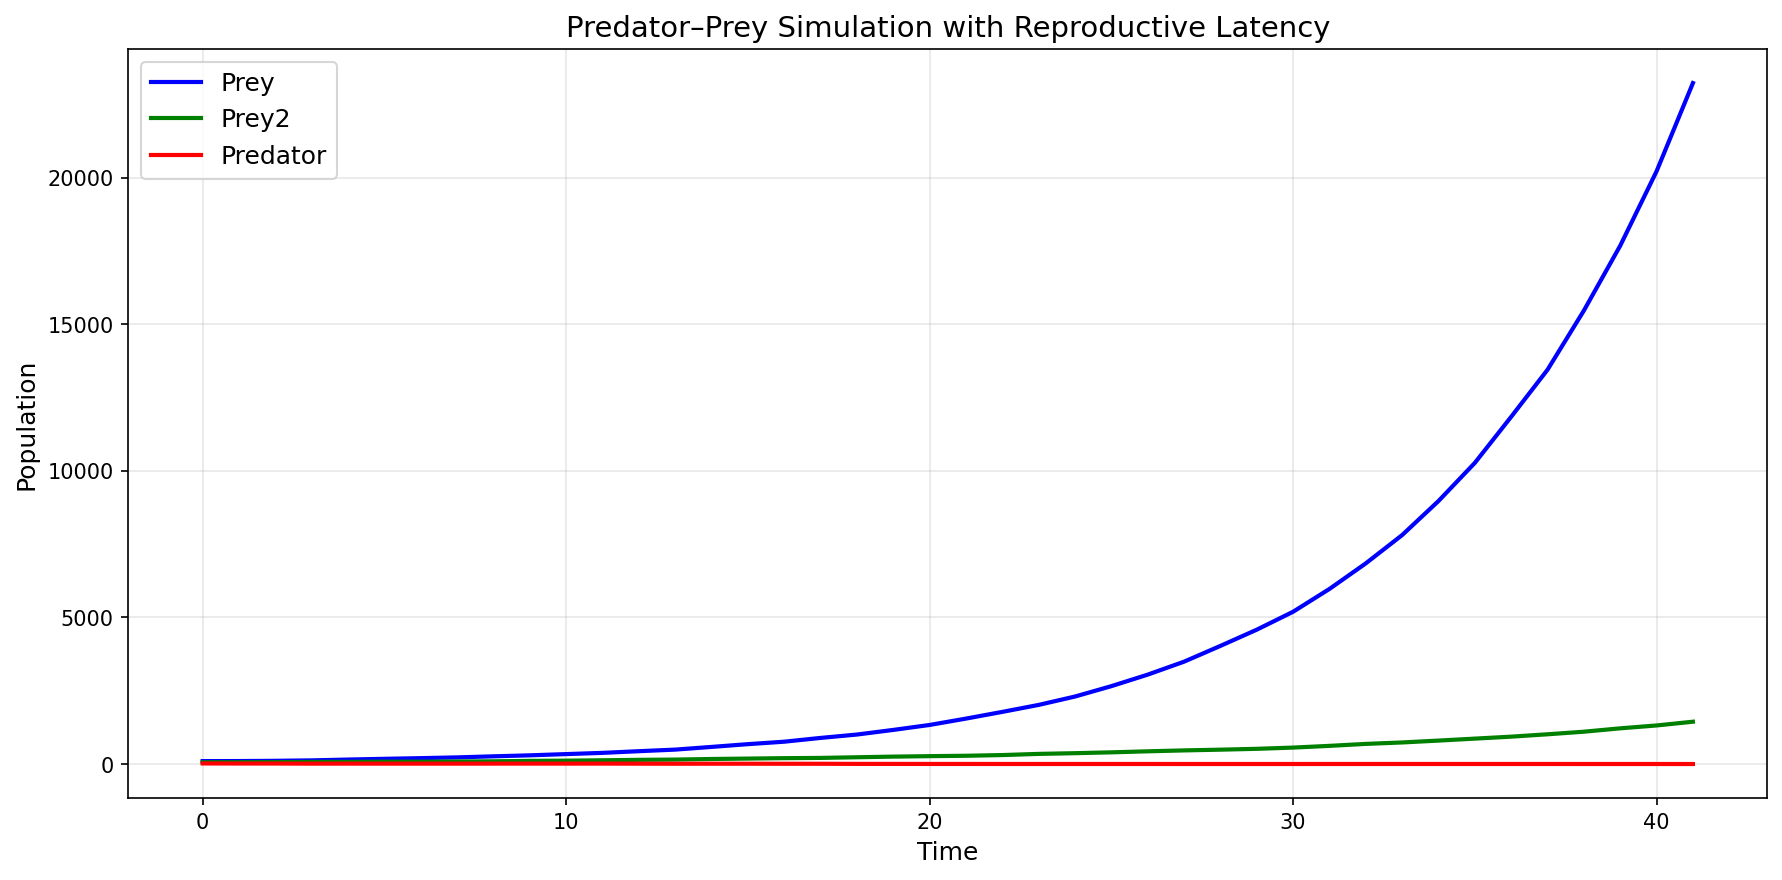
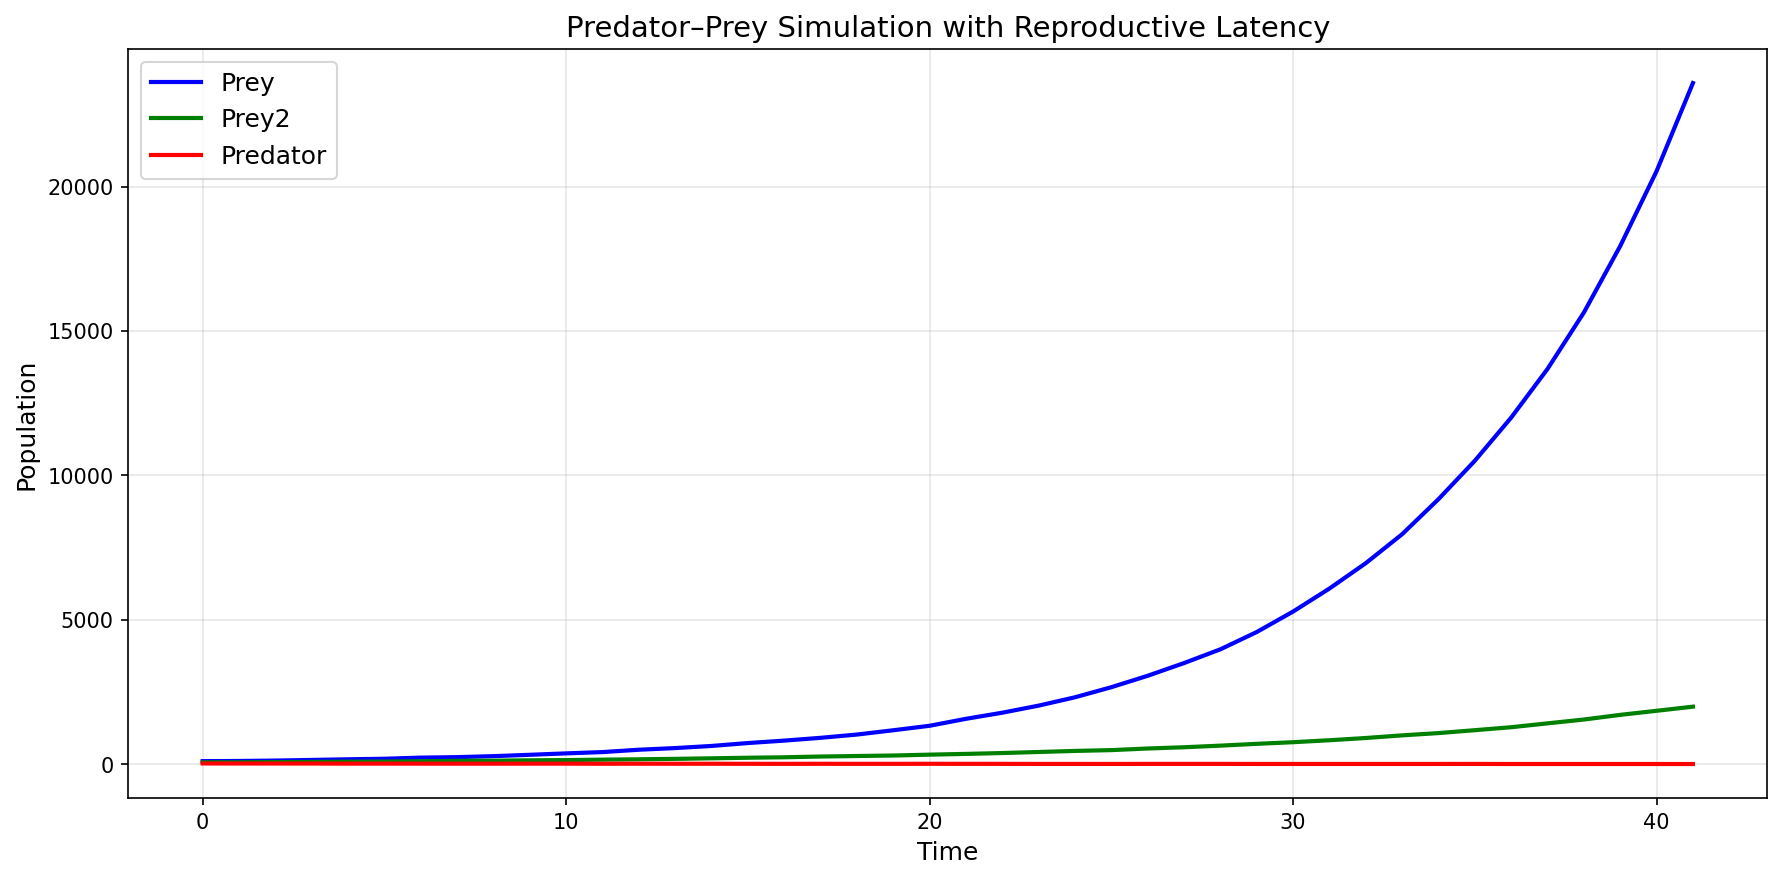
Stochastic graph i think

diff --git a/main.py b/main.py
@@ -4,6 +4,7 @@ import matplotlib
 matplotlib.use('Agg')  # Use non-interactive backend for environments without display
 import matplotlib.pyplot as plt
 import os
+import numpy as np
 
 # Create plots directory if it doesn't exist
 os.makedirs('plots', exist_ok=True)
@@ -82,6 +83,68 @@ plt.tight_layout()
 output_file = 'plots/predator_prey_simulation.png'
 plt.savefig(output_file, dpi=150, bbox_inches='tight')
 print(f"\nPlot saved to: {output_file}")
+
+# Stochastic Visualization Plot
+
+plt.figure(figsize=(14, 7))
+
+# get extinction timestep
+predator_extinct_step = None
+for i, pop in enumerate(predator.population):
+    if pop == 0:
+        predator_extinct_step = sim.time[i]
+        break
+
+# jitter clouds
+prey_j = np.array(prey.population) + np.random.normal(0, 0.015*np.max(prey.population), len(prey.population))
+prey2_j = np.array(prey2.population) + np.random.normal(0, 0.015*np.max(prey2.population), len(prey2.population))
+pred_j = np.array(predator.population) + np.random.normal(0, 0.1*np.max(predator.population + [1]), len(predator.population))
+
+# smooth lines
+plt.plot(sim.time, prey.population, linewidth=2.5, color="#4A90E2", alpha=0.5)
+plt.plot(sim.time, prey2.population, linewidth=2.5, color="#7ED321", alpha=0.5)
+plt.plot(sim.time, predator.population, linewidth=2.5, color="#D0021B", alpha=0.6)
+
+# variance shading (prettiest part)
+plt.fill_between(sim.time,
+                 np.array(prey.population)*0.9,
+                 np.array(prey.population)*1.1,
+                 color="#4A90E2", alpha=0.10)
+
+plt.fill_between(sim.time,
+                 np.array(prey2.population)*0.9,
+                 np.array(prey2.population)*1.1,
+                 color="#7ED321", alpha=0.10)
+
+plt.fill_between(sim.time,
+                 np.array(predator.population)*0.85,
+                 np.array(predator.population)*1.15,
+                 color="#D0021B", alpha=0.15)
+
+# scatter jitter dots
+plt.scatter(sim.time, prey_j, s=10, color="#4A90E2", alpha=0.3, label="Prey (stochastic)")
+plt.scatter(sim.time, prey2_j, s=10, color="#7ED321", alpha=0.3, label="Prey2 (stochastic)")
+plt.scatter(sim.time, pred_j, s=25, color="#D0021B", alpha=0.4, label="Predator (stochastic)")
+
+# extinction marker
+if predator_extinct_step is not None:
+    plt.axvline(predator_extinct_step, color="black", linestyle="--", alpha=0.6)
+    plt.text(predator_extinct_step + 1, max(prey.population)*0.05,
+             "Predator Extinction", fontsize=12, color="black")
+
+# formatting
+plt.title("Enhanced Stochastic Predator–Prey Dynamics with Variance Bands", fontsize=18)
+plt.xlabel("Time")
+plt.ylabel("Population")
+plt.legend()
+plt.grid(alpha=0.3, linestyle="--")
+plt.tight_layout()
+
+# save file
+pretty_2 = "plots/Stochastic_Visualization.png"
+plt.savefig(pretty_2, dpi=150, bbox_inches="tight")
+print(f"Stochastic Plot")
+
 
 # Print final statistics
 print(f"\nFinal Results:")
